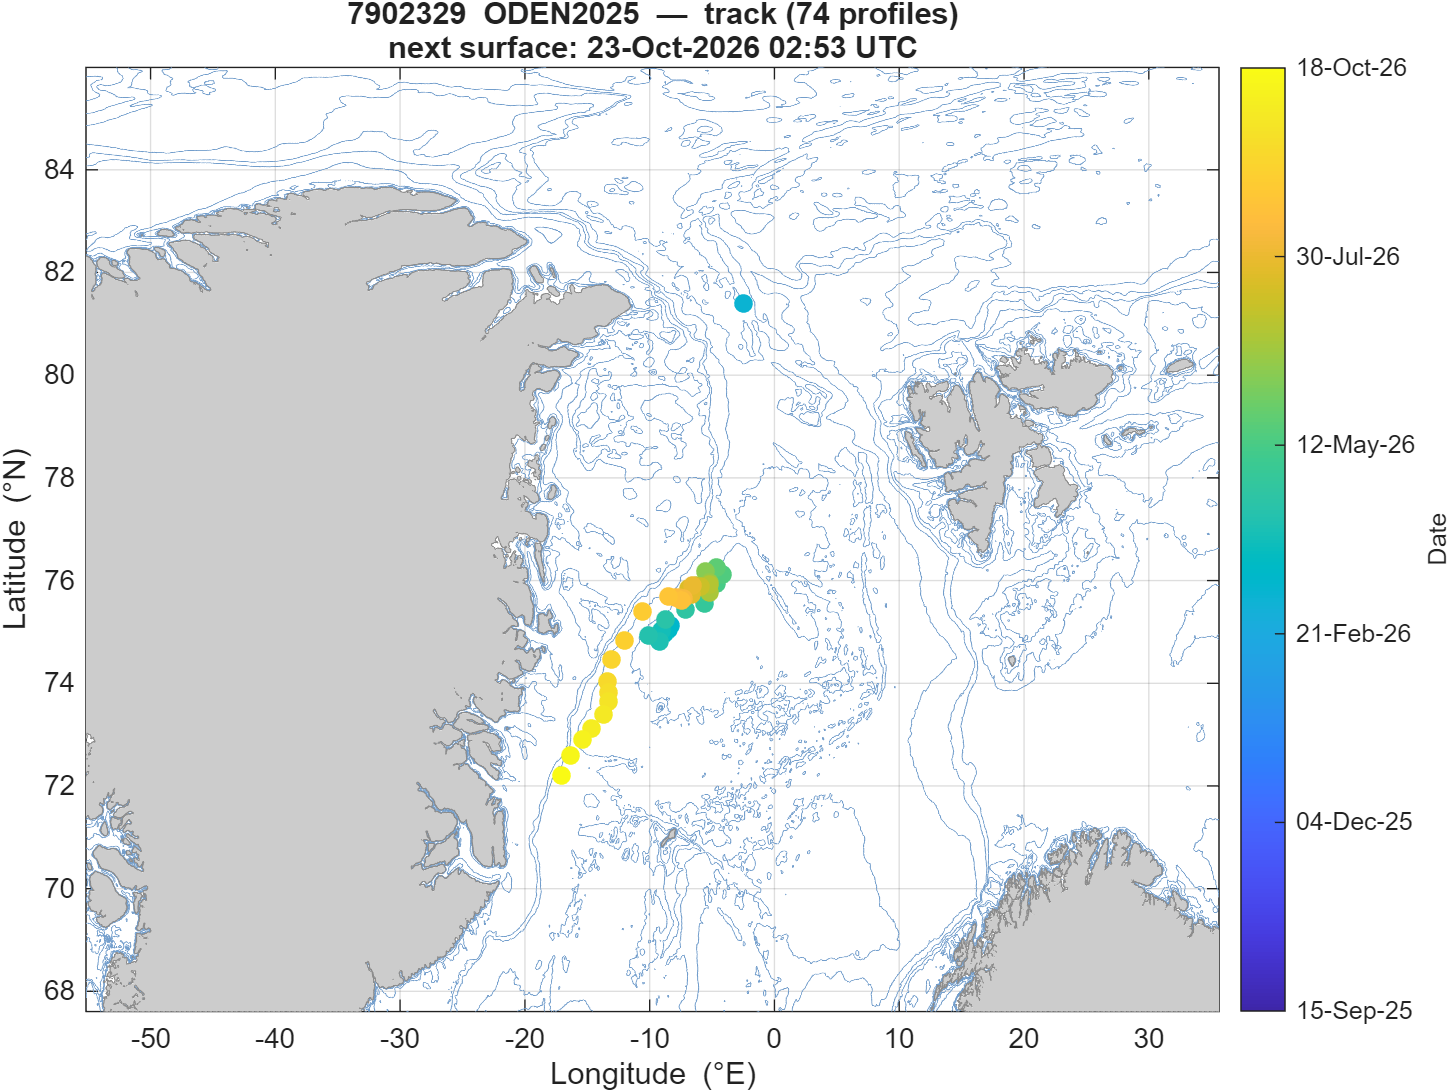
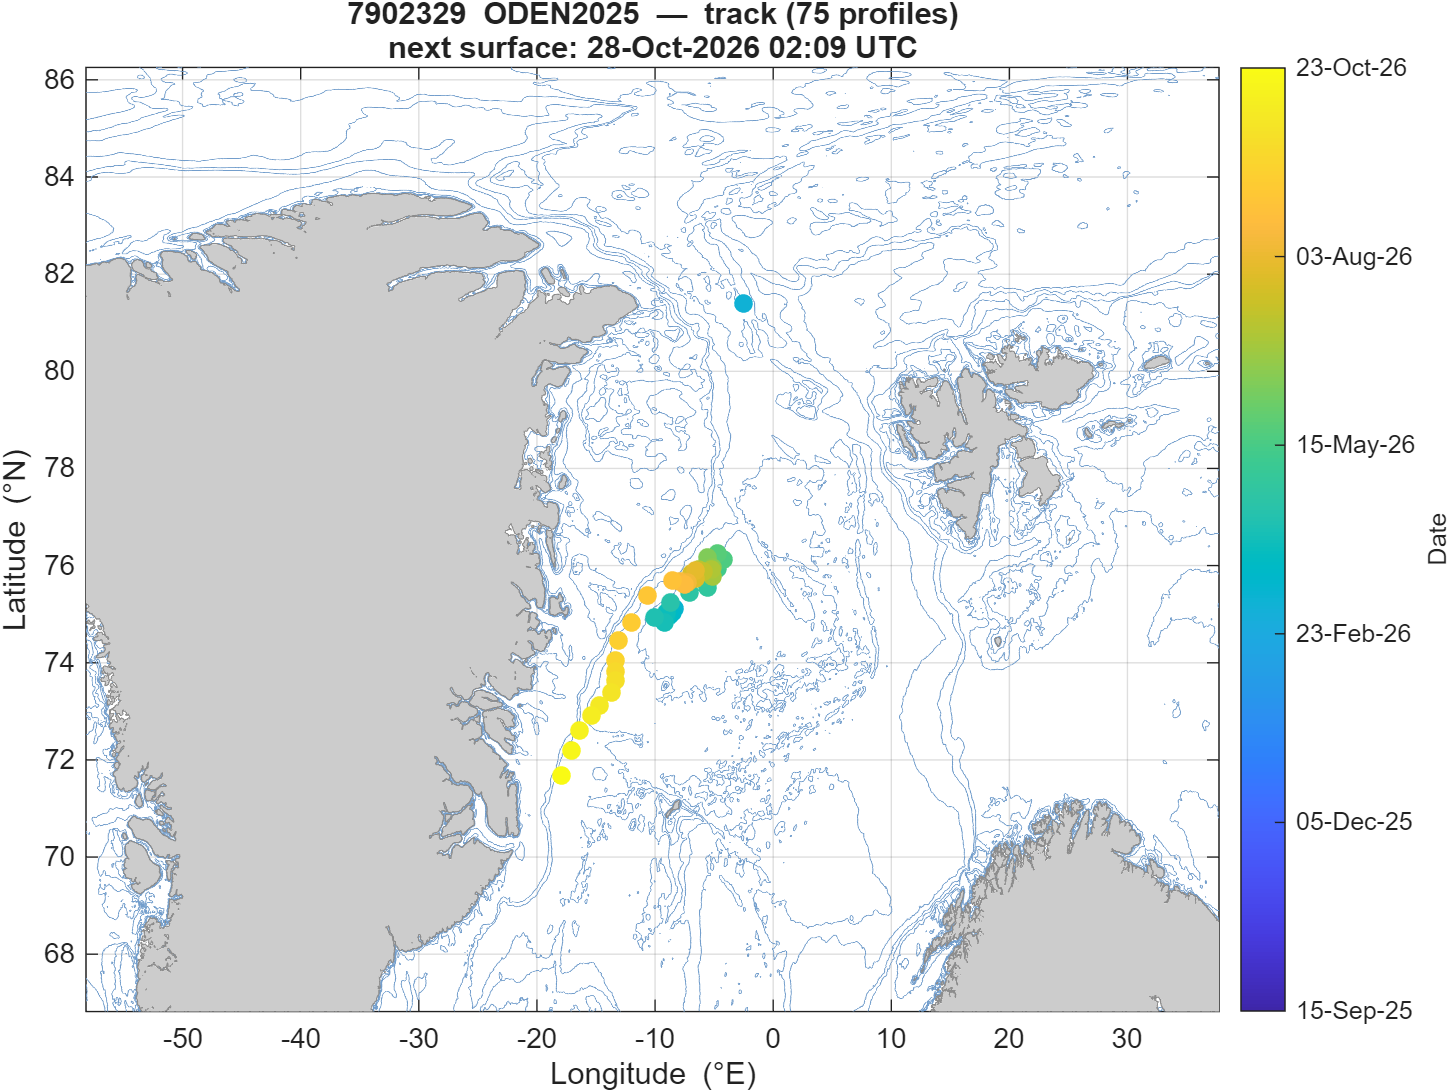
Data update

diff --git a/data.js b/data.js
@@ -15,7 +15,7 @@
 //   graphs        [{label, src}, ...] figures for the fold-out
 //   notes         free text from floats_config.csv
 
-const floatUpdated = "2026-10-20 14:52";
+const floatUpdated = "2026-10-23 15:55";
 
 const floatData = [
   {
@@ -27,15 +27,15 @@ const floatData = [
     "region": "greenland",
     "status": "active",
     "status_note": "",
-    "latitude": 69.7781,
-    "longitude": -18.4678,
-    "location": "69.778° N, 18.468° W",
+    "latitude": 69.7263,
+    "longitude": -18.5067,
+    "location": "69.726° N, 18.507° W",
     "deployment_date": "2025-05-27",
-    "last_surface": "2026-10-17 10:13",
-    "days_since": 3.2,
-    "next_surface": "2026-10-22 09:13",
+    "last_surface": "2026-10-22 09:11",
+    "days_since": 1.3,
+    "next_surface": "2026-10-27 08:11",
     "next_surface_source": "nke cycle period",
-    "n_profiles": 105,
+    "n_profiles": 106,
     "track": [
       [
         71.7159,
@@ -464,6 +464,10 @@ const floatData = [
       [
         69.7781,
         -18.4678
+      ],
+      [
+        69.7263,
+        -18.5067
       ]
     ],
     "trajectory": "assets/plots/3902677/3902677_map.png",
@@ -473,8 +477,8 @@ const floatData = [
         "src": "assets/plots/3902677/3902677_sections.png"
       },
       {
-        "label": "Profile 105  (2026-10-17)",
-        "src": "assets/plots/3902677/3902677_profile_105_2026-10-17.png"
+        "label": "Profile 106  (2026-10-22)",
+        "src": "assets/plots/3902677/3902677_profile_106_2026-10-22.png"
       }
     ],
     "notes": "sheet lists SBD+GDAC"
@@ -493,7 +497,7 @@ const floatData = [
     "location": "67.527° N, 20.084° W",
     "deployment_date": "2025-02-10",
     "last_surface": "2026-10-09 09:08",
-    "days_since": 11.2,
+    "days_since": 14.3,
     "next_surface": "2026-10-14 08:08",
     "next_surface_source": "nke cycle period",
     "n_profiles": 124,
@@ -1025,15 +1029,15 @@ const floatData = [
     "region": "greenland",
     "status": "active",
     "status_note": "",
-    "latitude": 72.2028,
-    "longitude": -17.063,
-    "location": "72.203° N, 17.063° W",
+    "latitude": 71.6785,
+    "longitude": -17.9453,
+    "location": "71.678° N, 17.945° W",
     "deployment_date": "2025-10-30",
-    "last_surface": "2026-10-18 03:53",
-    "days_since": 2.5,
-    "next_surface": "2026-10-23 02:53",
+    "last_surface": "2026-10-23 03:09",
+    "days_since": 0.5,
+    "next_surface": "2026-10-28 02:09",
     "next_surface_source": "nke cycle period",
-    "n_profiles": 71,
+    "n_profiles": 72,
     "track": [
       [
         81.3966,
@@ -1330,6 +1334,10 @@ const floatData = [
       [
         72.2028,
         -17.063
+      ],
+      [
+        71.6785,
+        -17.9453
       ]
     ],
     "trajectory": "assets/plots/7902329/7902329_map.png",
@@ -1339,8 +1347,8 @@ const floatData = [
         "src": "assets/plots/7902329/7902329_sections.png"
       },
       {
-        "label": "Profile 081  (2026-10-18)",
-        "src": "assets/plots/7902329/7902329_profile_081_2026-10-18.png"
+        "label": "Profile 082  (2026-10-23)",
+        "src": "assets/plots/7902329/7902329_profile_082_2026-10-23.png"
       }
     ],
     "notes": "ODEN2025 (North Pole deployment); pre-deployment Denmark test dropped via deploy_date"
@@ -1359,7 +1367,7 @@ const floatData = [
     "location": "77.324° N, 70.992° W",
     "deployment_date": "2025-08-13",
     "last_surface": "2026-10-18 21:32",
-    "days_since": 1.7,
+    "days_since": 4.8,
     "next_surface": "2026-10-23 20:32",
     "next_surface_source": "nke cycle period",
     "n_profiles": 67,
@@ -1672,7 +1680,7 @@ const floatData = [
     "location": "74.325° N, 20.307° W",
     "deployment_date": "2025-08-17",
     "last_surface": "2026-10-12 07:24",
-    "days_since": 8.3,
+    "days_since": 11.4,
     "next_surface": "2026-10-22 02:24",
     "next_surface_source": "nke cycle period",
     "n_profiles": 43,
@@ -1883,13 +1891,13 @@ const floatData = [
     "sensors": "core",
     "region": "greenland",
     "status": "inactive",
-    "status_note": "no transmission for 49 days — no next surfacing predicted",
+    "status_note": "no transmission for 52 days — no next surfacing predicted",
     "latitude": 78.6913,
     "longitude": -11.2546,
     "location": "78.691° N, 11.255° W",
     "deployment_date": "2025-08-04",
     "last_surface": "2026-09-01 04:35",
-    "days_since": 49.4,
+    "days_since": 52.5,
     "next_surface": "",
     "next_surface_source": "",
     "n_profiles": 81,
@@ -2258,7 +2266,7 @@ const floatData = [
     "location": "56.338° N, 19.458° E",
     "deployment_date": "2024-11-25",
     "last_surface": "2026-10-19 11:39",
-    "days_since": 1.1,
+    "days_since": 4.2,
     "next_surface": "2026-10-24 06:39",
     "next_surface_source": "nke cycle period",
     "n_profiles": 149,
@@ -2891,7 +2899,7 @@ const floatData = [
     "location": "55.201° N, 9.752° E",
     "deployment_date": "2026-06-23",
     "last_surface": "2026-10-15 13:43",
-    "days_since": 5,
+    "days_since": 8.1,
     "next_surface": "2026-10-20 12:28",
     "next_surface_source": "median cycle interval",
     "n_profiles": 24,
@@ -3015,15 +3023,15 @@ const floatData = [
     "region": "denmark",
     "status": "active",
     "status_note": "",
-    "latitude": 54.9865,
-    "longitude": 10.2286,
-    "location": "54.986° N, 10.229° E",
+    "latitude": 54.9866,
+    "longitude": 10.2288,
+    "location": "54.987° N, 10.229° E",
     "deployment_date": "2026-06-24",
-    "last_surface": "2026-10-18 01:52",
-    "days_since": 2.5,
-    "next_surface": "2026-10-23 01:48",
+    "last_surface": "2026-10-23 01:31",
+    "days_since": 0.6,
+    "next_surface": "2026-10-28 01:26",
     "next_surface_source": "median cycle interval",
-    "n_profiles": 24,
+    "n_profiles": 25,
     "track": [
       [
         54.9864,
@@ -3116,6 +3124,10 @@ const floatData = [
       [
         54.9865,
         10.2286
+      ],
+      [
+        54.9866,
+        10.2288
       ]
     ],
     "trajectory": "assets/plots/Sgav_provor/Sgav_provor_map.png",
@@ -3125,8 +3137,8 @@ const floatData = [
         "src": "assets/plots/Sgav_provor/Sgav_provor_sections.png"
       },
       {
-        "label": "Profile 024  (2026-10-18)",
-        "src": "assets/plots/Sgav_provor/Sgav_provor_profile_024_2026-10-18.png"
+        "label": "Profile 025  (2026-10-23)",
+        "src": "assets/plots/Sgav_provor/Sgav_provor_profile_025_2026-10-23.png"
       }
     ],
     "notes": "BGC+RAMSES+SUNA; needs external SGAV_provor tree beside pipeline (FTP+APMTDecoder); set active=true to re-run"
@@ -3139,13 +3151,13 @@ const floatData = [
     "sensors": "bgc",
     "region": "denmark",
     "status": "inactive",
-    "status_note": "no transmission for 471 days — no next surfacing predicted",
+    "status_note": "no transmission for 474 days — no next surfacing predicted",
     "latitude": 55.1358,
     "longitude": 14.5121,
     "location": "55.136° N, 14.512° E",
     "deployment_date": "2023-11-07",
     "last_surface": "2025-07-06 10:58",
-    "days_since": 471.2,
+    "days_since": 474.2,
     "next_surface": "",
     "next_surface_source": "",
     "n_profiles": 190,
